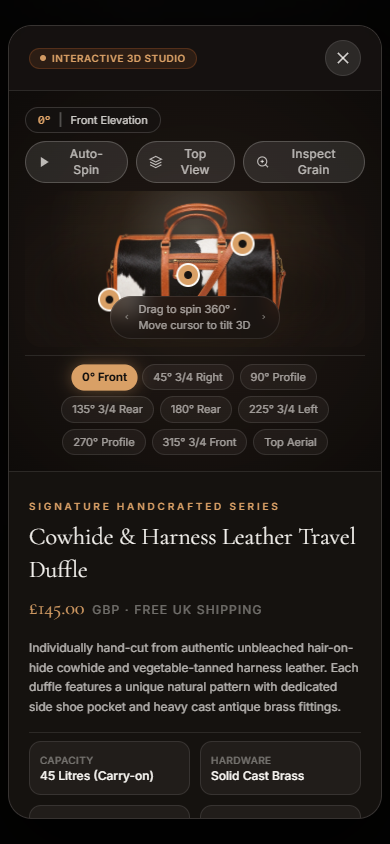
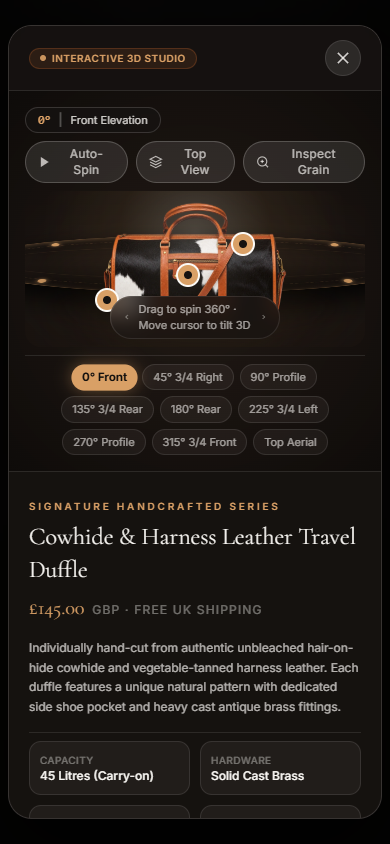
feat(3d-view): add 3D rotating studio turntable platter with degree compass, fix yaw boundary twitch, and refine soft dissolve transition

diff --git a/components/product/Product360ViewerModal.tsx b/components/product/Product360ViewerModal.tsx
@@ -405,8 +405,8 @@ export const Product360ViewerModal: React.FC = () => {
       const now = performance.now();
       const dt = Math.max(1, now - lastPointerTimeRef.current);
 
-      // Sensitivity: 360 degrees across 750px of drag
-      const degreesPerPixel = 360 / 750;
+      // Sensitivity: 360 degrees across 720px of drag
+      const degreesPerPixel = 360 / 720;
       const angleDelta = -deltaX * degreesPerPixel;
 
       angleRef.current = (angleRef.current + angleDelta) % 360;
@@ -457,12 +457,31 @@ export const Product360ViewerModal: React.FC = () => {
     setTimeout(() => setAddedToast(false), 2400);
   };
 
-  // Active display index (nearest 45-degree angle)
-  const nearestIdx = Math.round(angle / 45) % totalTurntableFrames;
-  const currentConfig = isTopView ? TOP_VIEW_CONFIG : TURNTABLE_FRAMES[nearestIdx];
+  // Active frame calculation:
+  // Each frame covers 45 degrees.
+  // To avoid any sudden jumps or ghosting, we compute the primary active frame
+  // and a subtle cross-dissolve only in a narrow 6-degree transition band around the boundary.
+  const normAngle = ((angle % 360) + 360) % 360;
+  const sector = normAngle / 45; // 0.0 to 8.0
+  const baseIdx = Math.floor(sector) % totalTurntableFrames;
+  const nextIdx = (baseIdx + 1) % totalTurntableFrames;
+  const sectorFrac = sector - Math.floor(sector); // 0.0 to 1.0
 
-  // Dynamic 3D perspective micro-yaw between angles (-10deg to +10deg)
-  const subAngleYaw = ((angle % 45) - 22.5) * 0.45;
+  // Transition band: 0.85 to 1.0 (last 6.75 degrees of each 45-degree sector)
+  let primaryIdx = baseIdx;
+  let secondaryIdx = nextIdx;
+  let blendOpacity = 0; // opacity of secondary frame
+
+  if (sectorFrac > 0.82) {
+    // Smooth cosine dissolve between outgoing and incoming frame
+    const t = (sectorFrac - 0.82) / 0.18; // 0 to 1
+    blendOpacity = 0.5 * (1 - Math.cos(t * Math.PI));
+  } else {
+    blendOpacity = 0;
+  }
+
+  const nearestIdx = Math.round(sector) % totalTurntableFrames;
+  const currentConfig = isTopView ? TOP_VIEW_CONFIG : TURNTABLE_FRAMES[nearestIdx];
 
   // Dynamic Specular Light Glint Position (sweeps with angle and tilt)
   const lightX = 50 + 40 * Math.sin((angle * Math.PI) / 180) + tilt.y * 1.5;
@@ -625,9 +644,48 @@ export const Product360ViewerModal: React.FC = () => {
                   }`}
                   style={{ touchAction: 'none' }}
                 >
-                  {/* Dynamic Studio Ambient Cognac Glow & Floor Ground Shadow */}
+                  {/* Studio Ambient Cognac Glow */}
                   <div className="absolute bottom-6 left-1/2 -translate-x-1/2 w-[85%] max-w-[560px] h-14 bg-[#D9A066]/15 rounded-full blur-2xl pointer-events-none" />
-                  
+
+                  {/* 3D Perspective Turntable Platter on Floor */}
+                  <div
+                    className="absolute bottom-5 left-1/2 -translate-x-1/2 pointer-events-none transition-transform duration-100 ease-out"
+                    style={{
+                      width: '460px',
+                      height: '130px',
+                      perspective: '800px',
+                    }}
+                  >
+                    {/* Rotating 3D Platter Disc */}
+                    <div
+                      className="relative w-full h-full rounded-[50%] border border-[#D9A066]/35"
+                      style={{
+                        background: 'radial-gradient(ellipse at center, rgba(50,38,30,0.85) 0%, rgba(20,15,12,0.95) 70%, rgba(10,8,6,1) 100%)',
+                        boxShadow: 'inset 0 2px 10px rgba(217,160,102,0.35), 0 20px 45px rgba(0,0,0,0.95)',
+                        transform: `rotateX(64deg) rotateZ(${isTopView ? 0 : -angle}deg)`,
+                        transformStyle: 'preserve-3d',
+                      }}
+                    >
+                      {/* Concentric Brushed Brass Rings */}
+                      <div className="absolute inset-3 rounded-[50%] border border-[#D9A066]/20 border-dashed pointer-events-none" />
+                      <div className="absolute inset-7 rounded-[50%] border border-[#D9A066]/10 pointer-events-none" />
+
+                      {/* 8 Cardinal Degree Indicator Ticks on Turntable Platter */}
+                      {[0, 45, 90, 135, 180, 225, 270, 315].map(deg => {
+                        const rad = (deg * Math.PI) / 180;
+                        const x = 50 + 45 * Math.sin(rad);
+                        const y = 50 - 45 * Math.cos(rad);
+                        return (
+                          <div
+                            key={deg}
+                            className="absolute w-2 h-2 rounded-full bg-[#D9A066] -translate-x-1/2 -translate-y-1/2 shadow-[0_0_6px_#D9A066]"
+                            style={{ left: `${x}%`, top: `${y}%` }}
+                          />
+                        );
+                      })}
+                    </div>
+                  </div>
+
                   {/* Dynamic Deforming Ground Shadow */}
                   <div
                     className="absolute bottom-10 left-1/2 -translate-x-1/2 max-w-[480px] h-8 bg-black/85 rounded-full blur-xl pointer-events-none transition-all duration-100 ease-out"
@@ -638,14 +696,14 @@ export const Product360ViewerModal: React.FC = () => {
                     }}
                   />
 
-                  {/* 3D Volumetric Canvas & Frame Container */}
+                  {/* 3D Volumetric Product Container */}
                   <div
                     className="relative w-full max-w-[620px] aspect-[4/3] flex items-center justify-center transition-transform duration-100 ease-out"
                     style={{
                       perspective: '1200px',
                       transform: isZoomMode
                         ? `scale(2.2) translate(${50 - zoomPos.x}%, ${50 - zoomPos.y}%)`
-                        : `perspective(1200px) rotateX(${tilt.x}deg) rotateY(${tilt.y + (isTopView ? 0 : subAngleYaw)}deg)`,
+                        : `perspective(1200px) rotateX(${tilt.x}deg) rotateY(${tilt.y}deg)`,
                       transformStyle: 'preserve-3d',
                     }}
                   >
@@ -662,26 +720,46 @@ export const Product360ViewerModal: React.FC = () => {
                         />
                       </div>
                     ) : (
-                      /* 360 Turntable Active Frame with 3D Spatial Transform */
-                      TURNTABLE_FRAMES.map((f, i) => {
-                        if (i !== nearestIdx) return null;
+                      /* 360 Turntable Frame Rendering with Soft Dissolve Boundary */
+                      <>
+                        {/* Primary Frame */}
+                        <div
+                          key={`primary-${primaryIdx}`}
+                          className="absolute inset-0 flex items-center justify-center pointer-events-none will-change-[opacity]"
+                          style={{
+                            opacity: 1 - blendOpacity,
+                          }}
+                        >
+                          <Image
+                            src={TURNTABLE_FRAMES[primaryIdx].src}
+                            alt={`Adehawk Duffle Bag - ${TURNTABLE_FRAMES[primaryIdx].label}`}
+                            fill
+                            sizes="(max-width: 1024px) 100vw, 620px"
+                            priority
+                            className="object-contain drop-shadow-[0_25px_50px_rgba(0,0,0,0.65)]"
+                          />
+                        </div>
 
-                        return (
+                        {/* Secondary Frame (only visible during the soft boundary dissolve) */}
+                        {blendOpacity > 0 && (
                           <div
-                            key={f.idx}
-                            className="absolute inset-0 flex items-center justify-center pointer-events-none will-change-[transform]"
+                            key={`secondary-${secondaryIdx}`}
+                            className="absolute inset-0 flex items-center justify-center pointer-events-none will-change-[opacity]"
+                            style={{
+                              opacity: blendOpacity,
+                            }}
                           >
                             <Image
-                              src={f.src}
-                              alt={`Adehawk Duffle Bag - ${f.label}`}
+                              src={TURNTABLE_FRAMES[secondaryIdx].src}
+                              alt={`Adehawk Duffle Bag - ${TURNTABLE_FRAMES[secondaryIdx].label}`}
                               fill
                               sizes="(max-width: 1024px) 100vw, 620px"
                               priority
                               className="object-contain drop-shadow-[0_25px_50px_rgba(0,0,0,0.65)]"
                             />
                           </div>
-                        );
-                      })
+                        )}
+                      </>
                     )}
 
                     {/* Dynamic Studio Specular Lighting Glint Overlay */}

diff --git a/scripts/verify-enhanced-3d.js b/scripts/verify-enhanced-3d.js
@@ -3,7 +3,7 @@ const fs = require('fs');
 const path = require('path');
 
 const CHROME_PATH = 'C:\\Program Files\\Google\\Chrome\\Application\\chrome.exe';
-const BASE_URL = 'http://127.0.0.1:3003';
+const BASE_URL = 'http://127.0.0.1:3004';
 const OUT_DIR = path.join(__dirname, '..', 'docs', 'qa_3d_viewer');
 
 async function verifyEnhanced3D() {
